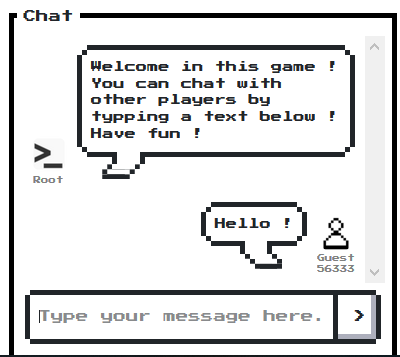
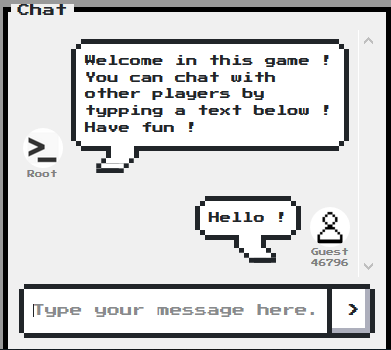
[Report] Add screenshots

diff --git a/report/report.tex b/report/report.tex
@@ -71,12 +71,12 @@ In order to be in adequacy with this concept of interactivity, we made the choic
 
 As previously mentioned, players will have to connect to a common online platform to collaborate and to guess as many words as possible. It is accessible from the following website address : \textbf{\textit{wordify.online}}. Once this page has been accessed from a browser (figure \ref{fig:wordify_home_page}), it is possible for a player to join a party or to create a new one. Then, he can invite his friends, his family members... The interface is intended to be original (retro effect) but simple to allow people to quickly understand how to start a new game. Once the player has joined a game, the rules, described in the next section, are applied. 
 
-%\bigskip
+\bigskip
 
 \begin{figure}[ht]
 	\centering
 	\fboxsep=1.2pt
-	\includegraphics[scale=0.33]{figures/wordify_home_page}
+	\includegraphics[scale=0.4]{figures/wordify_home_page}
 	\caption{Wordify - Home page}
 	\label{fig:wordify_home_page}
 \end{figure} 
@@ -87,7 +87,7 @@ As previously mentioned, players will have to connect to a common online platfor
 
 \label{chapter:rules}
 
-\textbf{Number of players : 3-7}
+\textbf{Number of players : 3 to 7}
 
 Once the players are connected to a game, the first round will automatically be initialized with the designation of an active player. An active player is the player who will have to guess the word according to the hints proposed by his teammates. Once the player selection is made, the system selects a word among a list stored in the database. This action completes the initialization phase for the first round. 
 
@@ -115,15 +115,48 @@ In this new part, we want to detail the user manual to know how to use the inter
 
 Upon arrival on the platform, a player accesses the game homepage (figure \ref{fig:wordify_home_page}). As mentioned before, we decided to adopt a retro style to make it more attractive and to feel nostalgic about the first games developed on console. 
 
-Apart from this design aspect, the player has access to different menus that will allow him to trigger specific actions. The figure \ref{fig:wordify_home_page_menus} shows the menus a player has access to.  The first one is used to present game rules. The second one allows people to connect to their account and to have access to their statistics for the previously played rounds. The third one provides an access to a registration form to create a new account. The fourth menu enables the player to join a random game with unknown people. Finally, the last one offers a way to propose new words to the game moderators (administrators), who can validate them and integrate them to the game. 
+Apart from this design aspect, the player has access to different menus that will allow him to trigger specific actions. The figure \ref{fig:wordify_home_page_menus} shows the menus a player has access to.  The first one (\ref{fig:game_rules}) is used to present game rules. The second one (\ref{fig:login_form}) allows people to connect to their account and to have access to their statistics for the previously played rounds. The third one (\ref{fig:registration_form}) provides an access to a registration form to create a new account. The fourth menu (\ref{fig:random_game_2}) enables the player to join a random game with unknown people. Finally, the last one (\ref{fig:propose_word}) offers a way to propose new words to the game administrators, who can validate them and integrate them to the game. 
+
+\vspace*{0.1cm}
 
 \begin{figure}[ht]
 	\centering
 	\fboxsep=1.2pt
-	\includegraphics[scale=0.3]{figures/no_picture}
+	\begin{subfigure}[t]{0.3\textwidth}
+		\centering
+		\includegraphics[height=1.2in]{figures/game_rules}
+		\caption{Game rules}
+		\label{fig:game_rules}
+	\end{subfigure}
+	\begin{subfigure}[t]{0.3\textwidth}
+		\centering
+		\includegraphics[height=1.2in]{figures/login_form}
+		\caption{Login form}
+		\label{fig:login_form}
+	\end{subfigure}
+	\begin{subfigure}[t]{0.3\textwidth}
+		\centering
+		\includegraphics[height=1.2in]{figures/registration_form}
+		\caption{Registration form}
+		\label{fig:registration_form}
+	\end{subfigure}
+	\begin{subfigure}[t]{0.48\textwidth}
+		\centering
+		\vspace*{0.5cm}
+		\includegraphics[height=1in]{figures/random_game}
+		\caption{Random game}
+		\label{fig:random_game_2}
+	\end{subfigure}
+	\begin{subfigure}[t]{0.48\textwidth}
+		\centering
+		\vspace*{0.5cm}
+		\includegraphics[height=1in]{figures/propose_word}
+		\caption{Random game}
+		\label{fig:propose_word}
+	\end{subfigure}
 	\caption{Wordify - Home page menus}
 	\label{fig:wordify_home_page_menus}
-\end{figure} 
+\end{figure}
 
 The game design is identical for all pages and allows players to easily interact with the application and to exploit all the associated features. 
 
@@ -137,7 +170,8 @@ From now on, we want to detail the functionalities a player has access to while 
 
 \begin{wrapfigure}{r}{0.4\linewidth}
 	\centering
-	\includegraphics[scale=0.7]{figures/join_game}
+	\vspace*{1cm}
+	\includegraphics[scale=0.7]{figures/random_game}
 	\caption{Join a game}
 	\label{fig:join_game}
 \end{wrapfigure}
@@ -150,10 +184,12 @@ If he is logged in, he will be able to play with his account to update his stats
 
 Once the player managed to join a game, he is waiting for other players. The figure \ref{fig:waiting_players} shows the number of players currently connected, waiting to play the game. It is also possible to visualize the game ID in the upper left corner. It can be shared to anyone while the game is being initialized (waiting for players). 
 
+\vspace*{0.1cm}
+
 \begin{figure}[ht]
 	\centering
 	\fboxsep=1.2pt
-	\includegraphics[scale=0.53]{figures/waiting_players}
+	\includegraphics[scale=0.52]{figures/waiting_players}
 	\caption{Waiting for players}
 	\label{fig:waiting_players}
 \end{figure} 
@@ -164,10 +200,10 @@ To start the game, the host will have to click on the blue button where the numb
 
 \begin{wrapfigure}{r}{0.4\linewidth}
 	\centering
-	\vspace*{-0.7cm}
-	\includegraphics[scale=0.4]{figures/guessing_word}
-	\caption{Guessing a word}
-	\label{fig:guessing_word}
+	\vspace*{-0.2cm}
+	\includegraphics[scale=0.4]{figures/entering_word}
+	\caption{Entering a word}
+	\label{fig:entering_word}
 \end{wrapfigure} 
 
 When a player is not considered active, he has the responsibility to find a hint related to the word to be guessed by the active player. All non-active players perform the same task at the same time. They have a given time to enter a hint in the dedicated field (figure \ref{fig:entering_word}). If the time is up, no hint is sent and the person lost an additional chance to make the word to be guessed by the active player. 
@@ -180,11 +216,11 @@ Once each player has entered a hint, all non-active players see the words entere
 
 \begin{wrapfigure}{r}{0.4\linewidth}
 	\centering
-	\vspace*{-1cm}
+	\vspace*{-0.5cm}
 	\includegraphics[scale=0.4]{figures/guessing_word}
-	\vspace*{-0.1cm}
-	\caption{Entering a word}
-	\label{fig:entering_word}
+	\caption{Guessing a word}
+	\label{fig:guessing_word}
+	\vspace*{-0.5cm}
 \end{wrapfigure}
 
 Once the game started, a player is designated to be the person to guess the word according to his teammates' hints. The active player must wait for the other players choose their hint, so that he can guess the sought word. The figure \ref{fig:guessing_word} shows the interface resulting from this waiting time. Once the hints have been displayed, he can try to guess the word in the allotted time or skip it (see the rules to know the number of points). 
@@ -198,7 +234,7 @@ Once the player has made his choice, the other players, waiting for his decision
 \begin{wrapfigure}{r}{0.4\linewidth}
 	\centering
 	\vspace*{-2cm}
-	\includegraphics[scale=0.58]{figures/chat}
+	\includegraphics[scale=0.63]{figures/chat}
 	\caption{Chat}
 	\label{fig:chat}
 	\vspace*{-2cm}
@@ -233,7 +269,7 @@ In addition to game-specific features, user has the possibility to access statis
 	\includegraphics[scale=0.5]{figures/update_profile}
 	\caption{Updating profile}
 	\label{fig:update_profile}
-	\vspace*{-2cm}
+	\vspace*{-3cm}
 \end{wrapfigure}
 
 Once the player is logged in, he can also update his pseudo, password and avatar. After the avatar has been changed, it is visible to the other players during a game. We wanted to offer the possibility to personalize his account. The figure \ref{fig:update_profile} shows the menu allowing to make these modifications. 
@@ -246,7 +282,7 @@ Once the player is logged in, he can also update his pseudo, password and avatar
 \begin{wrapfigure}{r}{0.4\linewidth}
 	\centering
 	\includegraphics[scale=0.5]{figures/send_word}
-	\caption{Updating profile}
+	\caption{Sending a word}
 	\label{fig:send_word}
 \end{wrapfigure}
 
@@ -274,14 +310,14 @@ Finally, he can also see a list of words that have already been validated by adm
 	\centering
 	\begin{subfigure}[t]{0.5\textwidth}
 		\centering
-		\includegraphics[height=1.2in]{figures/admin_add_word}
+		\includegraphics[height=1.5in]{figures/admin_add_word}
 		\caption{Adding a word}
 		\label{fig:admin_add_word}
 	\end{subfigure}%
 	~ 
 	\begin{subfigure}[t]{0.5\textwidth}
 		\centering
-		\includegraphics[height=1.2in]{figures/admin_validate_word}
+		\includegraphics[height=1.5in]{figures/admin_validate_word}
 		\caption{Validating a new word}
 		\label{fig:admin_validate_word}
 	\end{subfigure}
